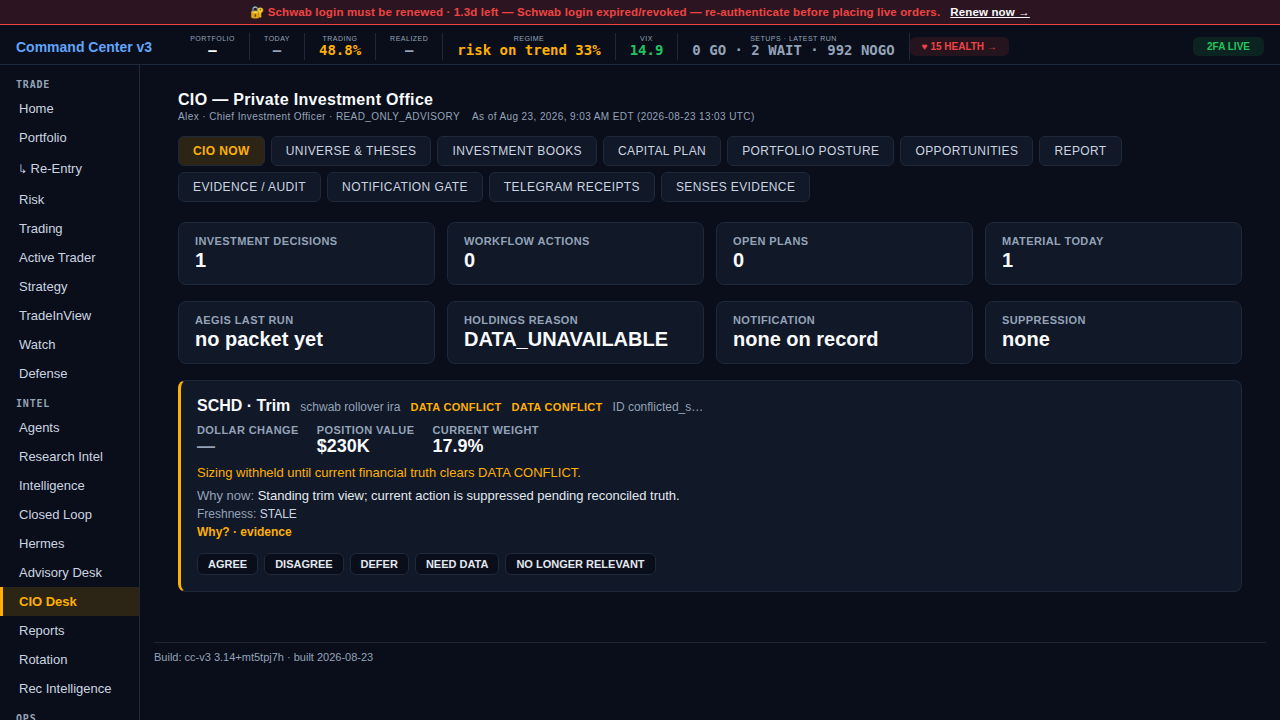
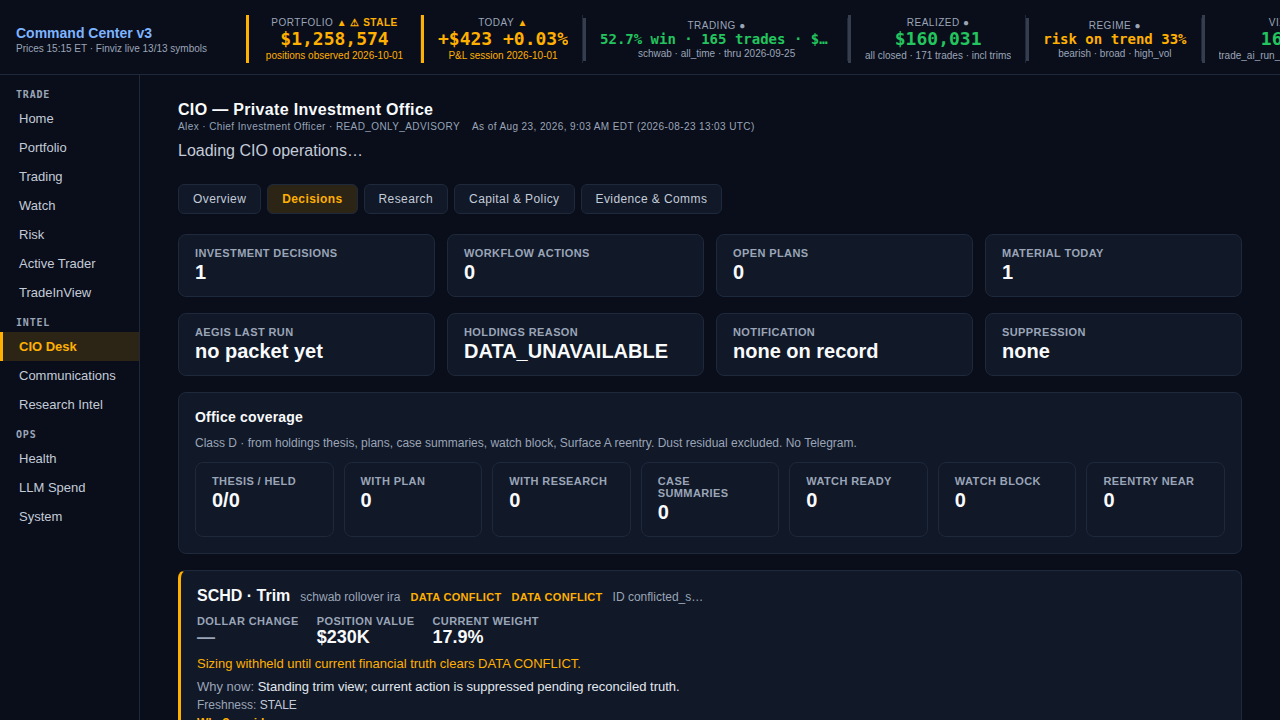
test(cio): register completeness census gates

diff --git a/scripts/run_cio_hardening_ci.py b/scripts/run_cio_hardening_ci.py
@@ -887,6 +887,9 @@ GATES = [
             "tests/test_cio_operator_evidence.py",
             # Advisory run-now must disclose independent dependency clocks.
             "tests/test_cio_advisory_dependency_clocks.py",
+            # Source-side API census and produced-versus-surfaced measurement.
+            "tests/test_cio_api_contract_census.py",
+            "tests/test_cio_completeness_measurement.py",
         ],
     ),
     # A failed producer must never overwrite good cached content. Registered here

diff --git a/scripts/cio_api_contract_census.py b/scripts/cio_api_contract_census.py
@@ -16,6 +16,7 @@ from pathlib import Path
 from typing import Any
 
 ROOT = Path(__file__).resolve().parents[1]
+NO_CONSUMER_REASON = "Source-side CLI/report artifact; runtime API consumption is intentionally not claimed."
 SURFACES = {
     "CIO": ROOT / "apps/command-center-v3/src/pages/CioHub.tsx",
     "Advisory": ROOT / "apps/command-center-v3/src/pages/AdvisoryDeskHub.tsx",

diff --git a/scripts/cio_completeness_measurement.py b/scripts/cio_completeness_measurement.py
@@ -10,6 +10,7 @@ from pathlib import Path
 from typing import Any
 
 ROOT = Path(__file__).resolve().parents[1]
+NO_CONSUMER_REASON = "Source-side acceptance artifact; live release consumption is intentionally not claimed."
 sys.path.insert(0, str(ROOT))
 
 from scripts.lib.cio_operator_evidence import build_operator_evidence  # noqa: E402
